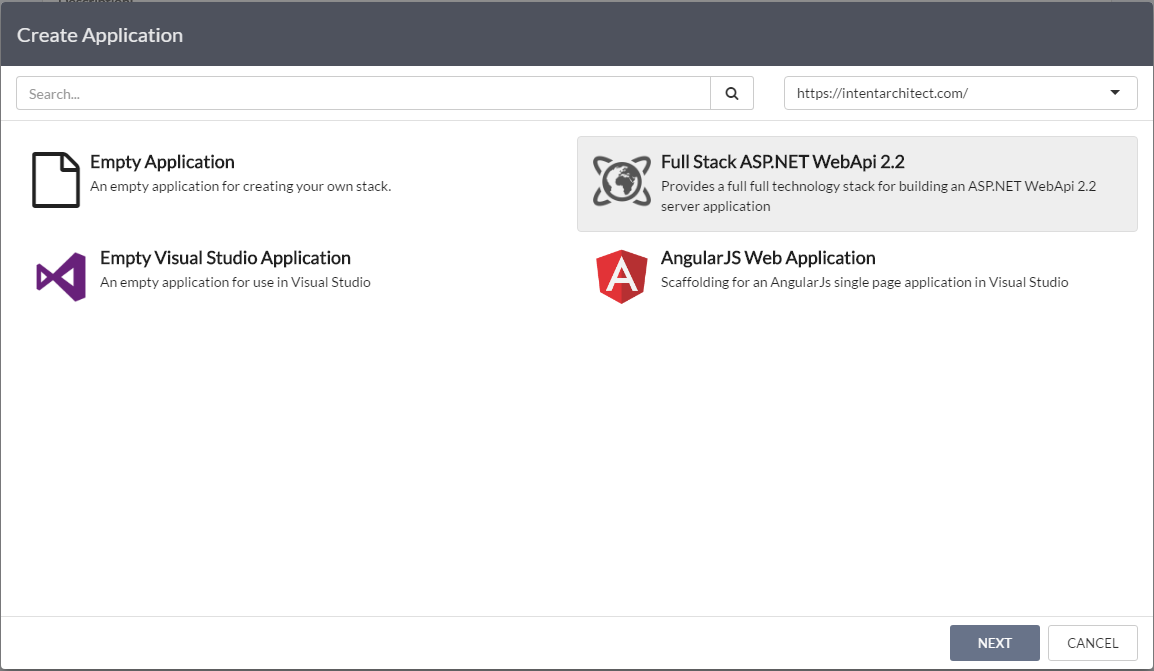
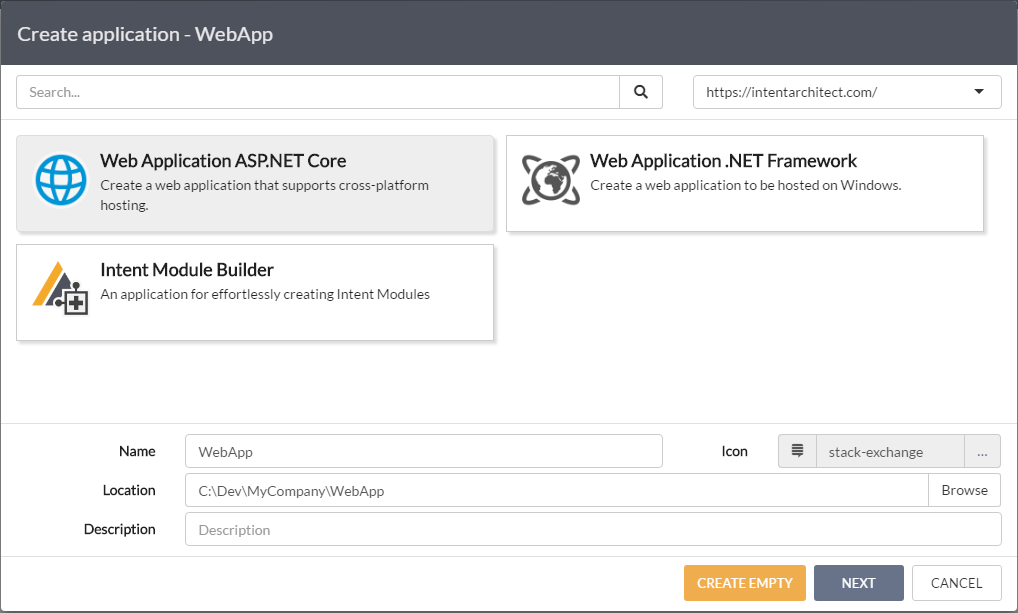
updated Quick Start documentation for 1.7

diff --git a/Documentation/articles/getting_started/quick_start.md b/Documentation/articles/getting_started/quick_start.md
@@ -1,64 +1,58 @@
 # Quick Start
 
-Tooling in software helps us build more robust, maintainable applications faster then we could doing it all by hand. 
+This quickstart guide will take you through the steps required to create an ASP.NET Core web application using the open-source modules created by the Intent team. The aim is to show how you can describe your system in high-level models and allow a technology specific set of modules (ASP.NET Core modules in this guide) to realize that into code.
 
-Intent Architect is an IDE-like tool which helps you better capture your design intent and uses that intent to build out aspects of your application as per your *'blueprints'*.
+The open-source modules repository can be found [here](https://github.com/IntentSoftware/IntentArchitect).
 
-The goal of this guide is to give you a feel for the tool, illustrating how it works and what it can do for you. In this guide we're going to create a "full stack" ASP.NET WebApi 2.2 server with persistence and domain patterns in place.
+## 1. Installing and running Intent Architect
 
-Once completed, you'll have a basic understanding of how Intent Architect works and a foundation to begin exploring how to it can make your development world better.
+Get Intent Architect up and running through the following steps.
 
-## 1. Setup the development environment
+- Download the latest version of Intent Architect from the website: [https://intentarchitect.com/#/downloads](https://intentarchitect.com/#/downloads)
+- Register an account: [https://intentarchitect.com/#/user-access/register](https://intentarchitect.com/#/user-access/register).
+- Double click the downloaded executable to install and run Intent Architect.
+- Log in using the credentials created for your account.
 
-Get Intent Architect up and running in 3 easy steps.
+## 2. Create a workspace
 
-- Sign up at [https://intentarchitect.com/](https://intentarchitect.com/).
-- Download the latest version of Intent Architect.
-- Double clicking the downloaded .exe automatically, installs, creates shortcuts for, and starts Intent Architect, ready for you to begin working with it. 
+A `workspace` provides the root location of your solution. This is typically the root folder of you version control repository. It may for example contain a single monolithic application or several microservices.
 
-## 2. Create a New Solution
+**From the home screen, click `Create new workspace...` under the 'Create' header.**
 
-A `Solution` is a logical grouping of `Applications` (components) of your system. Modern systems are typically composed of multiple cohesive applications which communicate with each other through well defined interfaces.  
+Fill in the Name, Description (optional), and Location of your workspace. You can also change the icon by clicking on it.
 
-**Click on `Create New Solution`, either in the body of the `Home` screen or from the `Solutions` drop down at the top of the screen.**
+![New Workspace Dialog](../../images/quick_start/create_workspace.png)
 
-![New Solution Dialog](../../images/quick_start/create_solution_dialog.png)
-
-*Create Solution Dialog*
+*Create Workspace Dialog*
 
 |Field|Description|
 |-|-|
-|Icon|This is an icon which will be associated with the *Solution*. By default a random icon is chosen, but it can be changed at any time.|
-|Name|The name of your solution. This name should be alpha-numeric with no special characters or spaces.|
-|Description|Any description or comments about this solution for yourself (or your team).|
-|Location|The folder where Intent Architect will save data for the solution. This should point to a path under the same Source Control Management as your normal source code, so that it can be versioned and shared amongst the development team in the same way. Intent Architect does not append any additional sub directories, the directory selected will be the directory used.|
+|Icon|This is an icon which will be associated with the *workspace*. By default a random icon is chosen, but it can be changed at any time.|
+|Name|The name of your workspace. This name should be alpha-numeric with no special characters or spaces.|
+|Description|Any description or comments about this workspace for yourself (or your team).|
+|Location|The folder where Intent Architect will save data for the workspace. This should point to a path under the same Source Control Management as your normal source code, so that it can be versioned and shared amongst the development team in the same way. Intent Architect does not append any additional sub directories, the directory selected will be the directory used.|
 
 You will be presented with the `Create Solution` Dialog.
 
 >[!TIP]
 >Good names for Solutions would typically be things like the client name, your product name, business area / unit or your organization name.
 
-**Fill out the dialog and press `Save`.**
+**Once the workspace details have been filled out, click `Save`.**
+
+The workspace will open automatically.
 
 ## 3. Create a new Application
 
-Next we will create an `Application`. As you would expect, in Intent Architect an `Application` is a single application of your overall system, for example, it could be a website including it's frontend along with backing services and infrastructure like database persistance. 
+Next we will create an `Application`. An application could represent a standalone monolithic application, a mircroservice, or simply a location for Intent Architect to generate code into.
 
-**Click the `New Application` tile.**
+**To create an application, click the `New Application` tile from within the workspace.**
 
-You will now be presented with a two-step wizard to create your application.
-- Select an Application Template.
-- Capture some basic details for the Application.
+A `Create application` wizard will be displayed, presenting a set of `application templates`.
+- Select the `Web Application ASP.NET Core` application template.
+- Capture the Name, Location, Icon and Description (option) of your application.
 
 ![Select an Application Template](../../images/quick_start/create_application_page1.png)
-*Select an Application Template*
-
-Each Application Template is pre-configured initial state of an application. They can install Modules, populate Metadata and anything else that can be manually configured through the front end. Intent Architect has a gallery of templates available online which will be added to over time. For the purposes of this guide, we will choose the `Full Stack ASP.NET WebAPI 2.2` *Application Template*.
-
-**Select the `Full Stack ASP.NET WebAPI 2.2` Application Template and click `Next`.**
-
-![Capture Application Details](../../images/quick_start/create_application_page2.png)
-*Capture Application Details*
+*Select an application template and fill out application details.*
 
 |Field|Description|
 |-|-|
@@ -66,8 +60,17 @@ Each Application Template is pre-configured initial state of an application. The
 |Icon|This is an icon which will be associated with the *application*. By default a random icon is chosen, but it can be changed at any time.|
 |Location|The folder where your application's data will be persisted. By default this will be in a sub-folder of the solution named after the Application name.|
 |Description|A description of the Application.|
+>[!TIP]
+>`Application templates` like the ones show above are not baked into Intent Architect. They can be created relatively easily and are a great way to bundle modules into a comprehensive technology set. They can also define the default `Project Layout`. See the open-source Intent Architect GitHub repository (https://github.com/IntentSoftware/IntentArchitect) for examples on how to build application templates.
 
-**After capturing the details, press `Create`.**
+**Click `NEXT`.**
+
+![Capture Application Details](../../images/quick_start/create_application_page2.png)
+*Capture Application Details*
+
+**Leave the Installation options as is and click `CREATE`.**
+
+Intent Architect will create the application as defined by the `Web Application ASP.NET Core` application template and begin downloading all the necessary modules. Once downloading is complete the application will be opened automatically. The `Installation Manager` can now be closed.
 
 ## 4. Push the `Play` button
 
